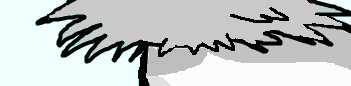
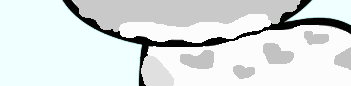
commits

diff --git a/config.py b/config.py
@@ -64,7 +64,7 @@ GENERATION_PARAMS = {
     'font_name': 'arial.ttf',       # Font for cat names
     'font_size': 26,                # Font size (reduced for longer names with Gen info)
     'text_color': (0, 0, 0),        # Text color
-    'text_position': (10, 5),       # Text position on cat image (x: left offset, y: top offset)
+    'text_position': (10, 5),       # Text offset (x: from center, y: from bottom)
     'text_padding_bottom': 35,      # Extra space at bottom for text
 }
 

diff --git a/tests/test_project.py b/tests/test_project.py
@@ -2,7 +2,6 @@
 Simplified tests for the Cat Family Generator project
 Tests only the essential requirements for the project to work correctly
 """
-import pytest
 from pathlib import Path
 from config import CATS_COLORS, GRAY_COLORS, CAT_PARTS_FOLDERS, NAMES_FILE
 

diff --git a/README.md b/README.md
@@ -30,8 +30,8 @@ The Cat Family Generator creates multi-generational cat families by combining ra
 
 1. **Clone the repository**
    ```bash
-   git clone https://github.com/yourusername/cat-family-generator.git
-   cd cat-family-generator
+   git clone https://github.com/rin8351/Generate_cats_family_png.git
+   cd Generate_cats_family_png
    ```
 
 2. **Install dependencies**
@@ -91,27 +91,28 @@ python main.py -o output/family.png --seed 123 -v --log cats.log
 | `--seed` | Random seed for reproducibility | Random |
 | `-v`, `--verbose` | Enable debug logging | Off |
 | `--log` | Save logs to file | None |
-| `--pairs` | Number of parent pairs | 2 |
 | `-h`, `--help` | Show help message | - |
 
 ## 📁 Project Structure
 
 ```
-cat-family-generator/
+Generate_cats_family_png/
 ├── main.py                 # Main entry point with CLI
 ├── cat.py                  # Cat classes and genetics logic
 ├── image_processing.py     # Image manipulation and combining
-├── config.py              # Configuration and constants
-├── requirements.txt       # Python dependencies
-├── README.md             # This file
-├── .gitignore           # Git ignore patterns
-├── cats_name.TXT        # List of cat names
-├── base.png             # Base cat template
-├── body/                # Body part images (1-7.png)
-├── ear/                 # Ear images (1-7.png)
-├── eyes/                # Eye images (1-8.png)
-├── legs/                # Leg images (1-7.png)
-└── tail/                # Tail images (1-8.png)
+├── config.py               # Configuration and constants
+├── requirements.txt        # Python dependencies
+├── README.md               # This file
+├── .gitignore              # Git ignore patterns
+├── cats_name.TXT           # List of cat names
+├── cats_family.png         # Example output
+├── base.png                # Base cat template
+├── body/                   # Body part images (1-7.png)
+├── ear/                    # Ear images (1-7.png)
+├── eyes/                   # Eye images (1-8.png)
+├── legs/                   # Leg images (1-7.png)
+├── tail/                   # Tail images (1-8.png)
+└── tests/                  # Project tests
 ```
 
 ## 🔬 How It Works
@@ -160,9 +161,9 @@ Original images use grayscale templates. Colors are applied by:
 - Select 2-3 colors for variation
 - Main body gets a specific color from ancestors
 
-#### **Generation 3: Great-Grandkittens**
-- Ultimate genetic combination
-- Multi-colored with complex patterns
+#### **Generation 3: Great-Grandkitten**
+- Same inheritance rules as Generation 2
+- Built from the two grandkittens
 
 ### 5. **Family Layout**
 The final image arranges cats in a family tree pattern: